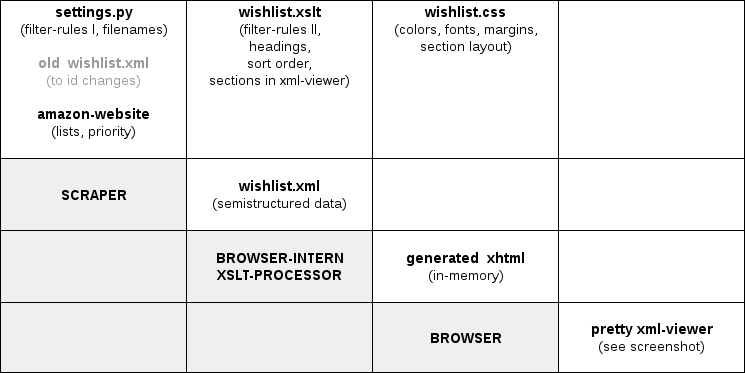
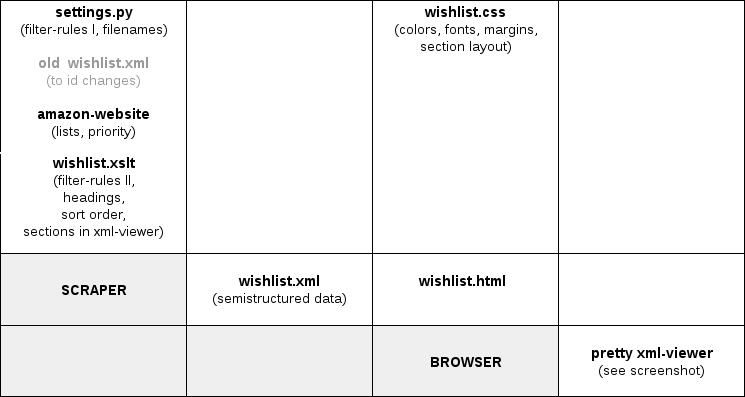
XSL-transformation through our code instead of an external processor
Eliminates an unfavorable external dependency, since the lxml library already supports XSLTRemoves dependency and Eliminates an unfavorable external dependency, since the lxml library already supports XSLT. Firefox 68+ refused to load local XSLT files (without changing the Firefox configuration) and xsltproc would also have to be installed first.

diff --git a/wishlist.py b/wishlist.py
@@ -119,9 +119,12 @@ class XmlWishlistReader:
 
 # ----------------------------------------------------------------------------
 class XmlWishlistWriter:
-	def __init__( self, filename = settings.WISHLISTS_XMLPATH ):
-		self.filename = filename
-		self._old     = None
+	def __init__( self, filename = settings.WISHLISTS_XMLPATH, xsl_outfname = settings.WISHLISTS_XSLOUTPATH ):
+		self.filename     = filename
+		base, ext         = os.path.splitext( self.filename )
+		self.xsl_path     = base + '.xslt'  # Dynamic name eases customization
+		self.xsl_outfname = xsl_outfname
+		self._old         = None
 		if os.path.exists( filename ):
 			try:
 				self._old = XmlWishlistReader( filename )
@@ -130,14 +133,17 @@ class XmlWishlistWriter:
 	
 	def __enter__( self ):
 		self._xml = XML.ElementTree( XML.Element( 'amazon' ))
-		base, ext = os.path.splitext( self.filename )
-		xsl_path  = base + '.xslt'  # Dynamic name eases customization
-		pi_xsl    = XML.ProcessingInstruction( 'xml-stylesheet', 'type="text/xsl" href="' + xsl_path + '"' )
+		pi_xsl    = XML.ProcessingInstruction( 'xml-stylesheet', 'type="text/xsl" href="' + self.xsl_path + '"' )
 		self._xml.getroot().addprevious( pi_xsl )
 		return self
 	
 	def __exit__( self, type, value, traceback ):
-		self._xml.write( self.filename, xml_declaration = True, pretty_print = True )
+		self._xml.write( self.filename, xml_declaration = True, pretty_print = True )  # Always required to id changes
+		if( self.xsl_outfname ):
+			xsl  = XML.parse( self.xsl_path )
+			tran = XML.XSLT( xsl )
+			xnew = tran( self._xml )
+			xnew.write( self.xsl_outfname, xml_declaration = True, pretty_print = True )
 	
 	def write_wl( self, wishlists ):
 		for wl in wishlists:
@@ -161,6 +167,8 @@ class XmlWishlistWriter:
 					XML.SubElement( p_elem, 'by'      ).text = product.by
 					XML.SubElement( p_elem, 'comment' ).text = product.comment
 					XML.SubElement( p_elem, 'price'   ).text = product.price_l10n  # Localized format with currency
+	
+	
 
 
 
